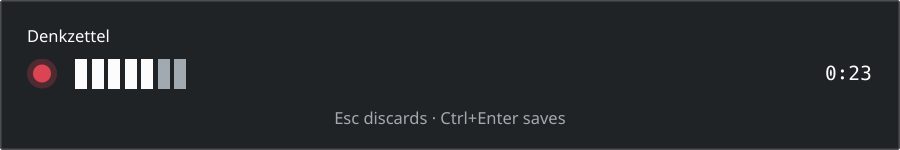
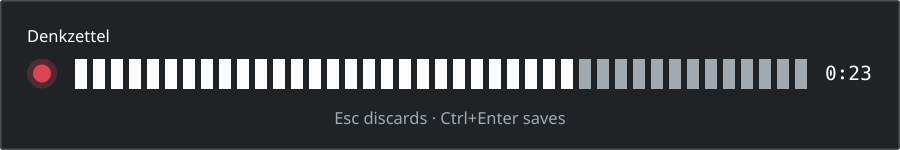
The level meter is as wide as the window, and the bar count says so
The customer saw the built recording window for the first time this evening
and said: "Die Darstellung der Balken sollte über die ganze Breite gehen."
Seven bars were wireframe 1f's answer for a window 280 px wide; the window is
600, and they stood as a clump beside the red dot with half the row empty.

The bar itself is unchanged. What the width decides is the count: the meter
takes the space between the dot and the running time, and draws as many bars
as fit at a pitch of twelve logical pixels. The gap goes from 3 to 4, so that
bar and gap are whole device pixels at the user's scaling of 1.5 — 3 would be
4.5, which the painter rounds, and over forty bars that frays.

Measured, all at QT_SCALE_FACTOR=1.5, offscreen, QT_QPA_PLATFORMTHEME=kde with
the style read back as `breeze` and a kdeglobals of the run's own (palette
Window #202326 / WindowText #fcfcfc, KColorScheme View #141618 /
NegativeText #da4453 — one file, not two sources):

- window 600 logical, meter 488 logical wide at x 50..537 (device x 75..806).
  41 bars counted out of the picture, every bar 12 device pixels, every gap 6,
  the first bar on the meter's left edge and the last on its right edge.
- The level the meter draws is the one the recorder reports. Silence 0.0000 →
  0 of 41 lit. A tone of amplitude 7000 → 0.2136 → 9 of 41. Amplitude 22000 →
  0.6714 → 28 of 41. Three levels, three different pictures; nothing in the
  run comes out the same twice.
[…]

Changed region(s): [[0.0933, 0.3733, 0.9022, 0.6133]]

diff --git a/wireframes/Denkzettel Wireframes.dc.html b/wireframes/Denkzettel Wireframes.dc.html
@@ -222,7 +222,7 @@
     <div style="position:absolute;top:8px;left:10px;font-size:12px;color:#8a8d93">Aufnahme läuft ab Fensteröffnung — kein Start-Knopf</div>
   </div>
 </div>
-<div style="font-size:13px;color:#777;line-height:1.5;padding-top:8px"><span style="color:#b3701f"><b style="color:#b3701f">Nachtrag (29.08.2026, UX-Entscheidungen zu #21):</b> Diese Zeichnung ist älter als die gemeinsame Hülle aus <a href="#4a" style="color:#b3701f">4a</a>/<a href="#4b" style="color:#b3701f">4b</a> und verliert an fünf Stellen. <b style="color:#b3701f">Erstens</b> ist das Fenster <b style="color:#b3701f">600 px breit</b> wie das Erfassungsfenster, nicht 280 — zwei Fenster derselben Machart, die sich in der Breite unterscheiden, lesen sich als zwei verschiedene Programme. <b style="color:#b3701f">Zweitens</b> steht die Überschrift „Denkzettel" in der <b style="color:#b3701f">Farbe des Notiztexts</b>, nicht im gedämpften Grau der Zeichnung: Es ist die Aufschrift des Fensters, nicht seine Fußnote (dieselbe Festlegung wie in <a href="#1a" style="color:#b3701f">1a</a>). <b style="color:#b3701f">Drittens</b> entfällt die <b style="color:#b3701f">Trennlinie</b> über der Fußzeile — aus demselben Grund wie in <a href="#1a" style="color:#b3701f">1a</a>: Sie war nie gebaut, und keine Palettenrolle trägt sie. <b style="color:#b3701f">Viertens</b> hat die Aussteuerungsanzeige <b style="color:#b3701f">sieben Balken</b>, und der rote Punkt <b style="color:#b3701f">steht ruhig</b> statt zu blinken; was sich bewegt, ist der Pegel, und ein zweites bewegtes Element daneben verlangt Aufmerksamkeit, ohne etwas zu sagen. <b style="color:#b3701f">Fünftens</b> wechselt die Laufzeit <b style="color:#b3701f">ab 14:00</b> in <span style="font-family:ui-monospace,monospace;font-size:11px">NegativeText</span>, und die vorhandene Fußzeile nimmt einen Satz dazu auf. Der Satz droht nicht, sondern sagt, was geschieht: <b style="color:#b3701f">an der Obergrenze wird gespeichert, nicht verworfen</b> — die Grenze steht gegen eine vergessene, laufende Aufnahme, nicht gegen die fünfzehn Minuten, die jemand gerade gesprochen hat. Diese Regel ist seit dem 29.08.2026 in SPEC 4 nachgetragen; sie stand vorher nirgends. Aufbau, Reihenfolge und Kürzel dieses Entwurfs gelten unverändert.</span></div>
+<div style="font-size:13px;color:#777;line-height:1.5;padding-top:8px"><span style="color:#b3701f"><b style="color:#b3701f">Nachtrag (29.08.2026, UX-Entscheidungen zu #21):</b> Diese Zeichnung ist älter als die gemeinsame Hülle aus <a href="#4a" style="color:#b3701f">4a</a>/<a href="#4b" style="color:#b3701f">4b</a> und verliert an fünf Stellen. <b style="color:#b3701f">Erstens</b> ist das Fenster <b style="color:#b3701f">600 px breit</b> wie das Erfassungsfenster, nicht 280 — zwei Fenster derselben Machart, die sich in der Breite unterscheiden, lesen sich als zwei verschiedene Programme. <b style="color:#b3701f">Zweitens</b> steht die Überschrift „Denkzettel" in der <b style="color:#b3701f">Farbe des Notiztexts</b>, nicht im gedämpften Grau der Zeichnung: Es ist die Aufschrift des Fensters, nicht seine Fußnote (dieselbe Festlegung wie in <a href="#1a" style="color:#b3701f">1a</a>). <b style="color:#b3701f">Drittens</b> entfällt die <b style="color:#b3701f">Trennlinie</b> über der Fußzeile — aus demselben Grund wie in <a href="#1a" style="color:#b3701f">1a</a>: Sie war nie gebaut, und keine Palettenrolle trägt sie. <b style="color:#b3701f">Viertens</b> hat die Aussteuerungsanzeige <b style="color:#b3701f">sieben Balken</b>, und der rote Punkt <b style="color:#b3701f">steht ruhig</b> statt zu blinken; was sich bewegt, ist der Pegel, und ein zweites bewegtes Element daneben verlangt Aufmerksamkeit, ohne etwas zu sagen. <b style="color:#b3701f">Fünftens</b> wechselt die Laufzeit <b style="color:#b3701f">ab 14:00</b> in <span style="font-family:ui-monospace,monospace;font-size:11px">NegativeText</span>, und die vorhandene Fußzeile nimmt einen Satz dazu auf. Der Satz droht nicht, sondern sagt, was geschieht: <b style="color:#b3701f">an der Obergrenze wird gespeichert, nicht verworfen</b> — die Grenze steht gegen eine vergessene, laufende Aufnahme, nicht gegen die fünfzehn Minuten, die jemand gerade gesprochen hat. Diese Regel ist seit dem 29.08.2026 in SPEC 4 nachgetragen; sie stand vorher nirgends. Aufbau, Reihenfolge und Kürzel dieses Entwurfs gelten unverändert.</span><br><span style="color:#b3701f"><b style="color:#b3701f">Zweiter Nachtrag (29.08.2026, Kundenanweisung nach dem ersten Blick auf das gebaute Fenster):</b> „Die Darstellung der Balken sollte über die ganze Breite gehen." Damit sind die <b style="color:#b3701f">sieben Balken</b> aus dem vierten Punkt überholt. Sieben war die Antwort auf das 280 px breite Fenster dieser Zeichnung; in den 600 px, die das Fenster wirklich hat, standen sie als schmale Gruppe links, mit einer halb leeren Zeile daneben. Die Balkenreihe füllt jetzt den Platz zwischen dem roten Punkt und der Laufzeit ganz. Der einzelne Balken bleibt, wie er war — 8 logische Pixel breit —, und was sich aus der Breite ergibt, ist die <b style="color:#b3701f">Anzahl</b>: bei 600 px Fensterbreite sind es 41 (gemessen am 29.08.2026), und je zwölf logische Pixel Fensterbreite kommt einer dazu oder fällt einer weg. Sieben Balken über 600 px zu ziehen wäre die andere Lesart gewesen und hätte sieben Blöcke ergeben, keine Aussteuerungsanzeige. Der Abstand zwischen zwei Balken ist von 3 auf 4 px gegangen, weil beide Maße bei der Skalierung 1,5 ganzzahlig aufgehen müssen — 8 und 4 sind 12 und 6 Gerätepixel, 3 wäre 4,5 gewesen und die Reihe wäre ausgefranst. Der ruhige rote Punkt aus demselben vierten Punkt gilt unverändert, ebenso die übrigen vier Abweichungen.</span></div>
 </div>
 
 </div>

diff --git a/src/capture/recordingwindow.cpp b/src/capture/recordingwindow.cpp
@@ -132,12 +132,39 @@ private:
 };
 
 /**
- * The level meter of SPEC 4: seven bars that light up from the left.
+ * The level meter of SPEC 4: a row of bars that lights up from the left and
+ * takes the whole width between the dot and the running time.
  *
  * An amplitude meter and not a history — what the user wants of it during a
  * recording is whether the microphone hears them, and that is in the current
  * value (UX decision of 29.08.2026). It therefore needs one number per buffer
  * and no memory.
+ *
+ * **The bar stays the size it is and the row grows by counting more of them**
+ * (the customer's instruction of 29.08.2026, after seeing the built window:
+ * "Die Darstellung der Balken sollte über die ganze Breite gehen"). Until then
+ * there were seven of them, from wireframe 1f, which drew a window 280 px wide;
+ * at the 600 px this window really has they stood as a small clump on the left
+ * with half the row empty beside them. The other way of filling that row —
+ * seven bars stretched to 70 px each — is not a meter any more but seven
+ * blocks, so what is derived from the width is the **count**, and each bar is
+ * the one the window had before. Measured at the user's scaling of 1.5: the
+ * 600 px window leaves the meter 488 logical pixels and draws **41** bars, a
+ * 400 px window 24 and a 900 px window 66 — one bar for every twelve logical
+ * pixels the window gains or loses. A window narrow enough for none to fit
+ * still gets one, so the row never disappears altogether.
+ *
+ * `BarWidth` and `BarGap` are both even because that scaling is 1.5: 8 and 4
+ * are 12 and 6 device pixels, whole numbers, and measured that is what all 41
+ * bars and all 40 gaps come out at. The gap was 3 before, which is 4.5 — with
+ * seven bars the painter's rounding was not worth seeing, with 41 the row would
+ * fray.
+ *
+ * The width is rarely a whole multiple of the twelve a bar and its gap take, so
+ * up to eleven logical pixels can be left over at the right end (four of them
+ * in the 400 px case above, none in the other two). They fall where the
+ * twelve-pixel gap to the running time already stands, which is the one place
+ * in this row where nothing is drawn anyway.
  *
  * The two colours are the ones the window has already resolved for its writing:
  * a lit bar in the note text's colour, an unlit one in the dimmed one. So the
@@ -150,7 +177,11 @@ public:
     explicit LevelMeter(QWidget *parent)
         : QWidget(parent)
     {
-        setFixedSize(Bars * BarWidth + (Bars - 1) * BarGap, Height);
+        setFixedHeight(Height);
+        // The one widget of the row that takes what the other two leave: the
+        // dot and the running time keep their own width, and there is no
+        // stretch beside them any more.
+        setSizePolicy(QSizePolicy::Expanding, QSizePolicy::Fixed);
     }
 
     void setColours(const QColor &lit, const QColor &unlit)
@@ -165,11 +196,12 @@ public:
     {
         // ponytail: the peak straight onto the bars, no curve and no falloff.
         // Ceiling: a linear scale spends its upper half on the loudest tenth
-        // of what a voice does, so a quiet speaker lights two bars where a
-        // loud one lights five. The way up is a decibel scale — 20*log10 over
-        // a floor of about -50 dB — and it is worth building only once
-        // somebody has looked at the meter and called it dead.
-        const int lit = qBound(0, qRound(qBound(qreal(0), level, qreal(1)) * Bars), Bars);
+        // of what a voice does, so a quiet speaker lights a third of the row
+        // where a loud one lights two thirds. The way up is a decibel scale —
+        // 20*log10 over a floor of about -50 dB — and it is worth building
+        // only once somebody has looked at the meter and called it dead.
+        m_level = qBound(qreal(0), level, qreal(1));
+        const int lit = litBars();
         if (lit == m_litBars) {
             return;
         }
@@ -180,22 +212,43 @@ public:
 protected:
     void paintEvent(QPaintEvent *) override
     {
+        const int bars = barCount();
         QPainter painter(this);
         painter.setPen(Qt::NoPen);
-        for (int bar = 0; bar < Bars; ++bar) {
+        for (int bar = 0; bar < bars; ++bar) {
             painter.setBrush(bar < m_litBars ? m_lit : m_unlit);
             painter.drawRect(bar * (BarWidth + BarGap), 0, BarWidth, Height);
         }
     }
 
+    void resizeEvent(QResizeEvent *event) override
+    {
+        // The count is the width's, so a resize moves the lit share as well —
+        // taken from the level again rather than kept, or the same recording
+        // would read differently after the window had changed size.
+        m_litBars = litBars();
+        QWidget::resizeEvent(event);
+    }
+
 private:
-    static constexpr int Bars = 7;
+    /** How many whole bars fit; the last one carries no gap behind it. */
+    int barCount() const
+    {
+        return qMax(1, (width() + BarGap) / (BarWidth + BarGap));
+    }
+
+    int litBars() const
+    {
+        return qRound(m_level * barCount());
+    }
+
     static constexpr int BarWidth = 8;
-    static constexpr int BarGap = 3;
+    static constexpr int BarGap = 4;
     static constexpr int Height = 20;
 
     QColor m_lit;
     QColor m_unlit;
+    qreal m_level = 0;
     int m_litBars = 0;
 };
 
@@ -241,7 +294,6 @@ RecordingWindow::RecordingWindow(Store *store, QWidget *parent)
     row->setSpacing(RowSpacing);
     row->addWidget(m_dot);
     row->addWidget(m_meter);
-    row->addStretch();
     row->addWidget(m_elapsed);
     layout->addLayout(row);
 

diff --git a/src/capture/recordingwindow.h b/src/capture/recordingwindow.h
@@ -44,12 +44,16 @@ QString recordingNotSavedMessage(const QString &path, bool rescued);
  * moment the window opens**: there is no start button, and the window that
  * stands there is the recording.
  *
- * What it shows is wireframe 1f, at the five points the drawing lost against
- * the built capture window (decision of 29.08.2026, noted in the drawing
- * itself): 600 px wide like the capture window, the heading in the note text's
- * colour, no parting line above the footer, seven bars for the level, a
- * resting dot — and from minute 14 the running time turns to the colour scheme's
- * negative text while the footer says when the recording will end.
+ * What it shows is wireframe 1f, at the points the drawing lost against the
+ * built capture window (decision of 29.08.2026, noted in the drawing itself):
+ * 600 px wide like the capture window, the heading in the note text's colour,
+ * no parting line above the footer, a resting dot — and from minute 14 the
+ * running time turns to the colour scheme's negative text while the footer says
+ * when the recording will end. The level meter is the one the drawing lost
+ * against the **built** window: seven bars were the drawing's answer for a
+ * window 280 px wide, and at 600 they stood as a clump on the left, so the row
+ * now fills the width between the dot and the running time (the customer's
+ * instruction of 29.08.2026, see capture::LevelMeter).
  *
  * **The note is made when the recording is finished, not when the key is
  * pressed** (the lesson of issue #22). A note created earlier would be in the

diff --git a/CLAUDE.md b/CLAUDE.md
@@ -1002,6 +1002,22 @@ find.
     lazy fix and the root-cause fix were the same line: read the row back
     instead of keeping a copy.
 
+64. **The bounding box of a picture difference is not the rectangle of the
+    widget that changed.** Measured 2026-08-29 while widening the level meter:
+    the difference between the unchanged and the changed picture came out
+    `x 92..806, y 59..88`, and read as finding 39 asks it to be read, that is a
+    change confined to one row and nothing else. It is not the meter. The meter
+    stands at device `x 75..806`; the box begins seventeen pixels further right
+    because the **first bar is drawn identically in both builds** and only the
+    second one moves, the gap having gone from 3 logical pixels to 4. A box that
+    starts inside the widget looks exactly like a widget that has moved right,
+    and the picture cannot tell the two apart. What told them apart was the
+    widget's geometry read back inside the run — `meter->x()`, `width()`, times
+    the device pixel ratio — held against the box. So a difference is read
+    against a rectangle **set from outside** (finding 10), and "the difference
+    lies inside the changed widget" is a statement about two numbers, only one
+    of which the picture carries.
+
 **The common denominator** is every time the first rule of the verification
 stance: the step would have delivered the same output if its subject had been
 missing.

diff --git a/CHANGELOG.md b/CHANGELOG.md
@@ -203,6 +203,14 @@ follows 0.x SemVer (decided on 2026-08-02; visible since #61 via
 
 ### Changed
 
+- **The level meter of the recording window goes across the whole width.** It
+  used to be seven bars standing as a small clump beside the red dot, with half
+  the row empty next to them — seven was the number for the 280 px window of the
+  drawing, and the built window is 600 px wide. The bar itself is unchanged; the
+  row now fills the space between the red dot and the running time, which at
+  600 px is 41 bars, and a wider or narrower window gets one more or one fewer
+  for every twelve pixels.
+
 - **The model is set by its size, not by a file name.** The key `ModelPath` in
   the `[Transcription]` group of `~/.config/denkzettelrc` is replaced by
   `ModelSize` (`tiny`, `base`, `small`, `medium`, `large-v3`, default `small`);

diff --git a/README.de.md b/README.de.md
@@ -348,8 +348,7 @@ eines **alten** Standes mit frischem Zeitstempel schreibt.
 
 Das Aufnahmefenster bringt sein eigenes Signal mit: Der Läufer füttert den
 Encoder mit einem Ton fester Amplitude, statt das Mikrofon der Maschine zu
-öffnen — deshalb steht seine Pegelanzeige in jedem Lauf auf denselben fünf
-Balken.
+öffnen — deshalb stehen in jedem Lauf dieselben 28 der 41 Balken.
 
 Ein Lauf schreibt **einen** Sprachsatz, und drei Dinge im Bild haben drei
 verschiedene Quellen: Die Beschriftungen kommen aus dem Nachrichtenkatalog

diff --git a/README.md b/README.md
@@ -337,7 +337,7 @@ with a fresh timestamp.
 
 The recording window brings its own signal: the runner feeds the encoder a tone
 of a fixed amplitude instead of opening the machine's microphone, which is why
-its meter stands at the same five bars in every run.
+its meter stands at the same 28 of 41 bars in every run.
 
 One run writes **one** language set, and three things in the picture have three
 different sources: the interface strings come from the message catalogue
